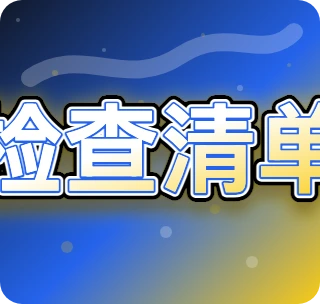
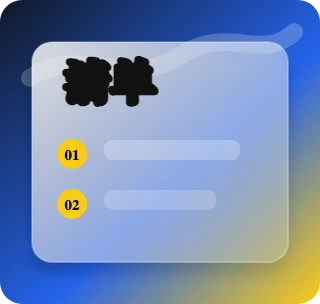
feat: regenerate text template pack assets

diff --git a/qcut/apps/web/scripts/generate-text-assets.ts b/qcut/apps/web/scripts/generate-text-assets.ts
@@ -2,6 +2,7 @@ import { createHash } from "node:crypto";
 import { mkdir, writeFile } from "node:fs/promises";
 import { dirname, join } from "node:path";
 import { chromium, type Page } from "playwright";
+import { getTextTemplateThumbnailLayoutKind } from "../src/components/editor/media-panel/views/text-template-thumbnail-renderer";
 import { getTextTemplateResource } from "../src/lib/text/text-resource-catalog";
 import {
 	buildTextTemplate,
@@ -95,7 +96,63 @@ function paletteForDefinition({
 	);
 }
 
+function packBodySvg({
+	definition,
+}: {
+	definition: TextTemplateDefinition;
+}): string {
+	if (definition.category === "quote-template") {
+		return `<text x="76" y="116" font-size="86" font-weight="900" fill="var(--accent)" filter="url(#shadow)">“</text>
+<text x="126" y="156" font-size="50" font-weight="900" fill="var(--light)" stroke="rgba(0,0,0,.68)" stroke-width="4" stroke-linejoin="round">金句</text>
+<text x="132" y="214" font-size="24" font-weight="800" fill="var(--mid)">— 观点摘录</text>`;
+	}
+	if (definition.category === "list-template") {
+		return `<text x="64" y="98" font-size="46" font-weight="900" fill="var(--light)" stroke="#111" stroke-width="8" stroke-linejoin="round">清单</text>
+<circle cx="72" cy="154" r="15" fill="var(--accent)"/><text x="72" y="160" text-anchor="middle" font-size="15" font-weight="900" fill="#020617">01</text><rect x="104" y="140" width="136" height="20" rx="8" fill="rgba(255,255,255,.25)"/>
+<circle cx="72" cy="204" r="15" fill="var(--accent)"/><text x="72" y="210" text-anchor="middle" font-size="15" font-weight="900" fill="#020617">02</text><rect x="104" y="190" width="112" height="20" rx="8" fill="rgba(255,255,255,.2)"/>`;
+	}
+	if (definition.category === "split-template") {
+		return `<rect x="48" y="88" width="92" height="132" rx="18" fill="rgba(0,0,0,.36)"/><rect x="180" y="88" width="92" height="132" rx="18" fill="rgba(255,255,255,.22)"/>
+<text x="94" y="160" text-anchor="middle" font-size="30" font-weight="900" fill="var(--light)" stroke="rgba(0,0,0,.66)" stroke-width="3">之前</text>
+<text x="226" y="160" text-anchor="middle" font-size="30" font-weight="900" fill="var(--light)" stroke="rgba(0,0,0,.66)" stroke-width="3">之后</text>
+<text x="160" y="166" text-anchor="middle" font-size="40" font-weight="900" fill="var(--accent)" stroke="rgba(0,0,0,.68)" stroke-width="4">VS</text>`;
+	}
+	if (definition.category === "timeline-template") {
+		return `<path d="M66 154 H254" stroke="rgba(255,255,255,.72)" stroke-width="6" stroke-linecap="round"/>
+<circle cx="66" cy="154" r="18" fill="var(--mid)"/><circle cx="160" cy="154" r="25" fill="var(--accent)"/><circle cx="254" cy="154" r="18" fill="var(--mid)"/>
+<text x="66" y="212" text-anchor="middle" font-size="20" font-weight="900" fill="var(--light)">1</text>
+<text x="160" y="161" text-anchor="middle" font-size="20" font-weight="900" fill="#020617">阶段</text>
+<text x="254" y="212" text-anchor="middle" font-size="20" font-weight="900" fill="var(--light)">结果</text>`;
+	}
+	return `<rect x="60" y="64" width="114" height="38" rx="14" fill="var(--accent)" filter="url(#shadow)"/>
+<text x="117" y="89" text-anchor="middle" font-size="21" font-weight="900" fill="#020617">本期重点</text>
+<text x="60" y="168" font-size="58" font-weight="900" fill="var(--light)" stroke="rgba(0,0,0,.68)" stroke-width="5" stroke-linejoin="round">标题</text>
+<text x="64" y="220" font-size="28" font-weight="900" fill="var(--light)" stroke="rgba(0,0,0,.6)" stroke-width="2.5" stroke-linejoin="round">三句话讲清楚</text>`;
+}
+
+function packThumbnailSvg({
+	definition,
+}: {
+	definition: TextTemplateDefinition;
+}) {
+	const [dark, mid, accent, light] = paletteForDefinition({ definition });
+	return `<svg xmlns="http://www.w3.org/2000/svg" width="${THUMBNAIL_WIDTH}" height="${THUMBNAIL_HEIGHT}" viewBox="0 0 ${THUMBNAIL_WIDTH} ${THUMBNAIL_HEIGHT}" style="--mid:${mid};--accent:${accent};--light:${light}">
+<defs>
+<linearGradient id="bg" x1="0" y1="0" x2="1" y2="1"><stop offset="0" stop-color="${dark}"/><stop offset="0.58" stop-color="${mid}"/><stop offset="1" stop-color="${accent}"/></linearGradient>
+<linearGradient id="card" x1="0" y1="0" x2="1" y2="1"><stop offset="0" stop-color="rgba(255,255,255,.82)"/><stop offset="1" stop-color="rgba(255,255,255,.16)"/></linearGradient>
+<filter id="shadow" x="-30%" y="-30%" width="160%" height="160%"><feDropShadow dx="0" dy="10" stdDeviation="7" flood-color="#000" flood-opacity="0.45"/></filter>
+</defs>
+<rect width="320" height="304" rx="22" fill="url(#bg)"/>
+<path d="M30 78 C82 42 126 92 181 55 C229 24 263 63 294 32" fill="none" stroke="${light}" stroke-opacity=".22" stroke-width="18" stroke-linecap="round"/>
+<rect x="32" y="42" width="256" height="220" rx="20" fill="url(#card)" stroke="rgba(255,255,255,.24)" stroke-width="2" filter="url(#shadow)"/>
+${packBodySvg({ definition })}
+</svg>`;
+}
+
 function thumbnailSvg({ definition }: { definition: TextTemplateDefinition }) {
+	if (getTextTemplateThumbnailLayoutKind({ definition }) === "pack") {
+		return packThumbnailSvg({ definition });
+	}
 	const [dark, mid, accent, light] = paletteForDefinition({ definition });
 	const label = escapeXml({ value: previewText({ definition }) });
 	const rotate = definition.variantId.includes("italic") ? -4 : 0;
